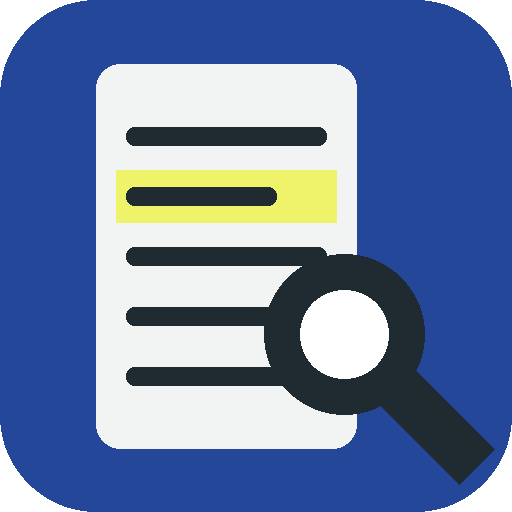
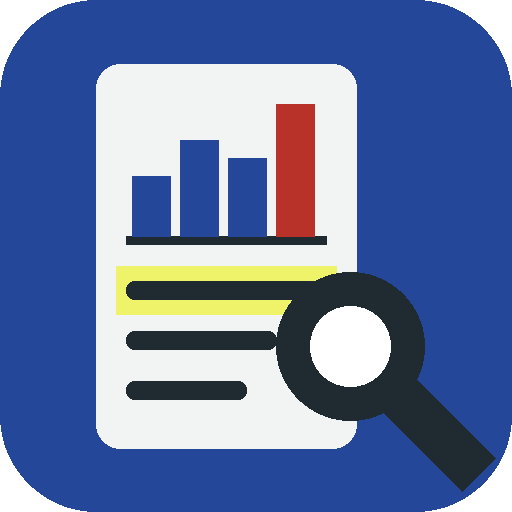
앱 아이콘: 문서 안에 막대그래프
Claude-Session: https://claude.ai/code/session_018azw1v8qbnFhhJTfEADCBL

diff --git a/app.py b/app.py
@@ -18,7 +18,7 @@ import points as pt
 import report_parse as rp
 import ui
 
-LAST_UPDATED = "2026.11.24 04:20"
+LAST_UPDATED = "2026.11.24 04:30"
 st.set_page_config(page_title="사업보고서 분석기", page_icon=os.path.join(os.path.dirname(os.path.abspath(__file__)), "assets", "icon.png"), layout="wide")
 ui.inject()
 

diff --git a/업데이트_기록.md b/업데이트_기록.md
@@ -7,6 +7,7 @@
 
 ## 2026.11.24
 
+- **04:30 [수정] 앱 아이콘에 그래프** — 문서 위쪽에 막대그래프(마지막 막대만 교정 빨강), 아래에 형광펜 줄 + 돋보기. · 바뀐 파일: assets/icon.png, app.py · ▶할 일: 없음
 - **04:20 [추가] 앱 아이콘** — 브라우저 탭·북마크 아이콘을 Streamlit 왕관 대신 '교정지' 색(인주 청 바탕, 형광펜 줄 문서 + 돋보기)으로. · 바뀐 파일: assets/icon.png(새로), app.py · ▶할 일: 크롬 북마크가 옛 아이콘이면 앱이 다 뜬 뒤 북마크를 지우고 다시 추가
 - **04:00 [수정] 문체 틀 '만드는 방법' 순서** — 'Claude에 붙여 넣을 재료 받기 (추천)'을 앞(기본값)으로, 'Gemini 무료'를 뒤로. 같은 재료로 비교해 보니 Claude가 규칙을 더 잘 지켜서. · 바뀐 파일: app.py, tests/test_app.py · ▶할 일: 없음
 - **03:50 [수정] 문체 틀 지시 보강 + 지어낸 인용 경고** — (삼성SDI 3분기 틀: Claude 재료 붙여넣기 결과 vs Gemini 무료 결과 비교 뒤) ① 틀에 큰따옴표 인용이 있는데 숫자 자료(회사 설명)에 그대로 없으면 '지어낸 인용일 수 있어요' 경고(Gemini가 “영업이익이 흑자 전환했다”를 만든 사례). ② 지시 추가: 【확인 필요】마다 무엇을 어떤 꼴로 채울지 구체적으로('원인 등' 금지), 단락 순서(사실 단락 → 원인 자리 → 변수·과제 자리), 흑자·적자 전환을 썼으면 직전 분기 비교 빼기, 인용은 회사 설명 글자 그대로만, 분량은 억지로 채우지 않기(짧으면 '사실이 모자라 짧아요' 안내만). Claude에 붙여 넣을 재료에도 같은 지시가 들어감. · 바뀐 파일: article.py, app.py, tests/test_article.py · ▶할 일: 없음
